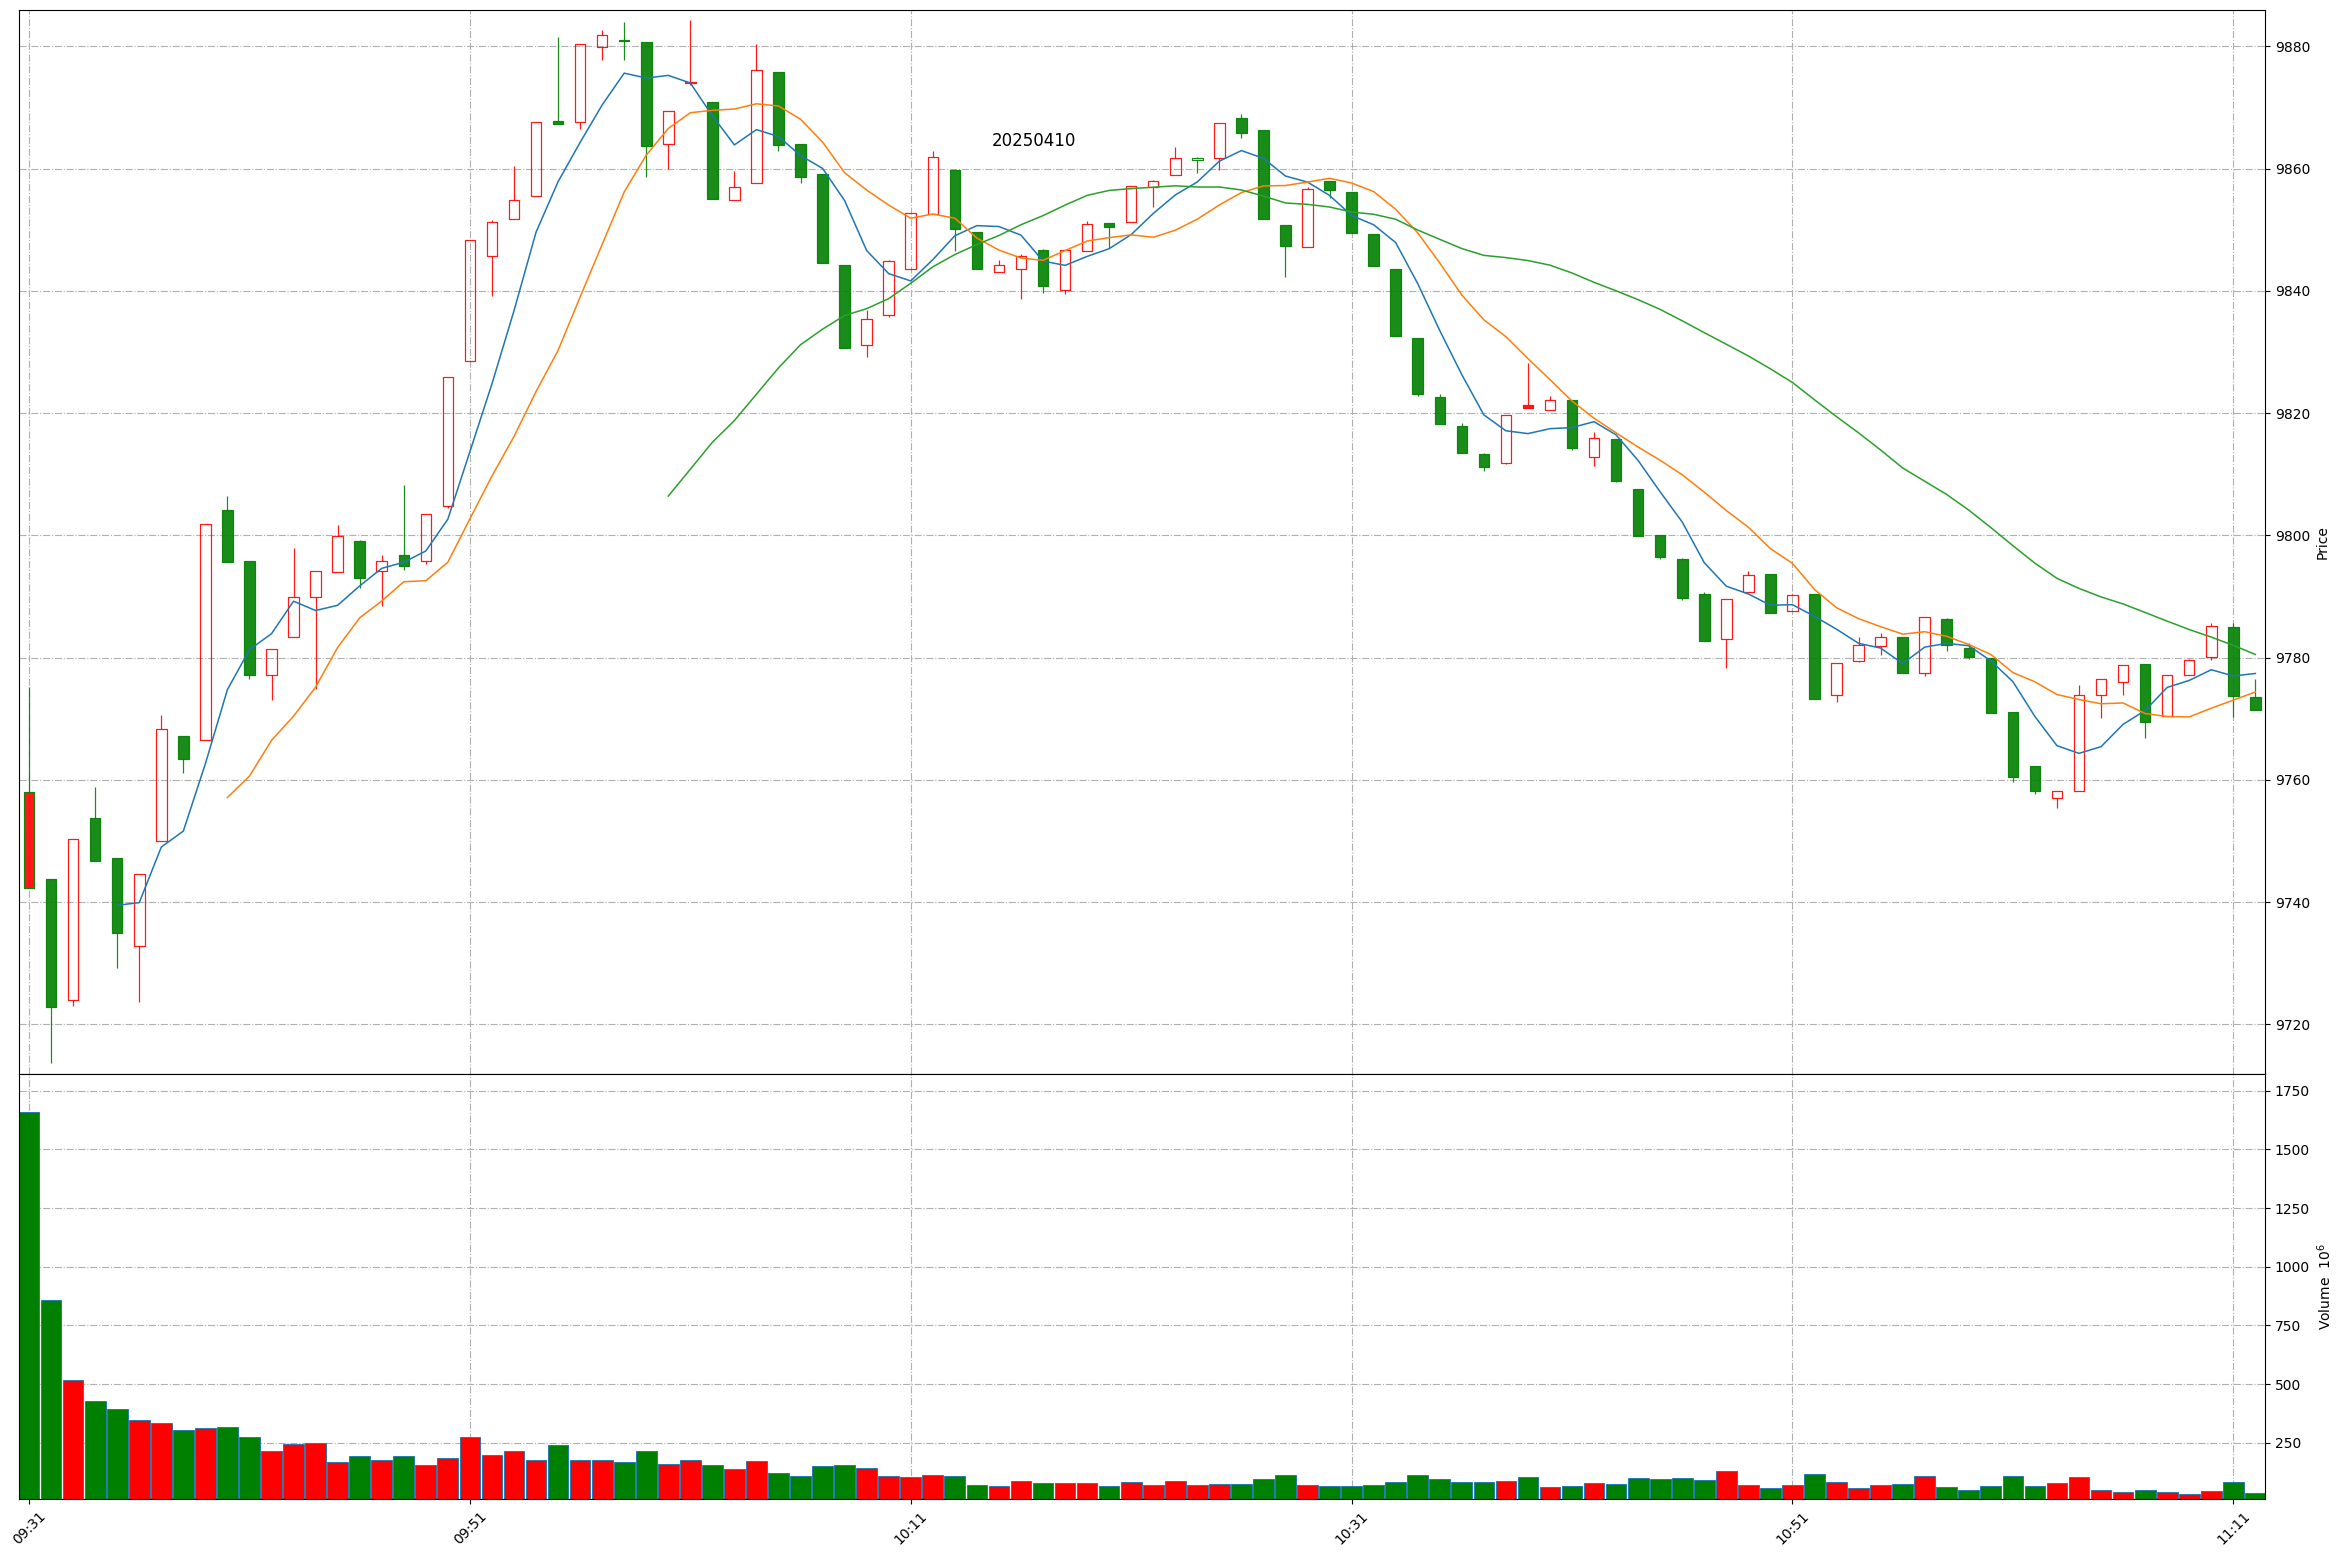
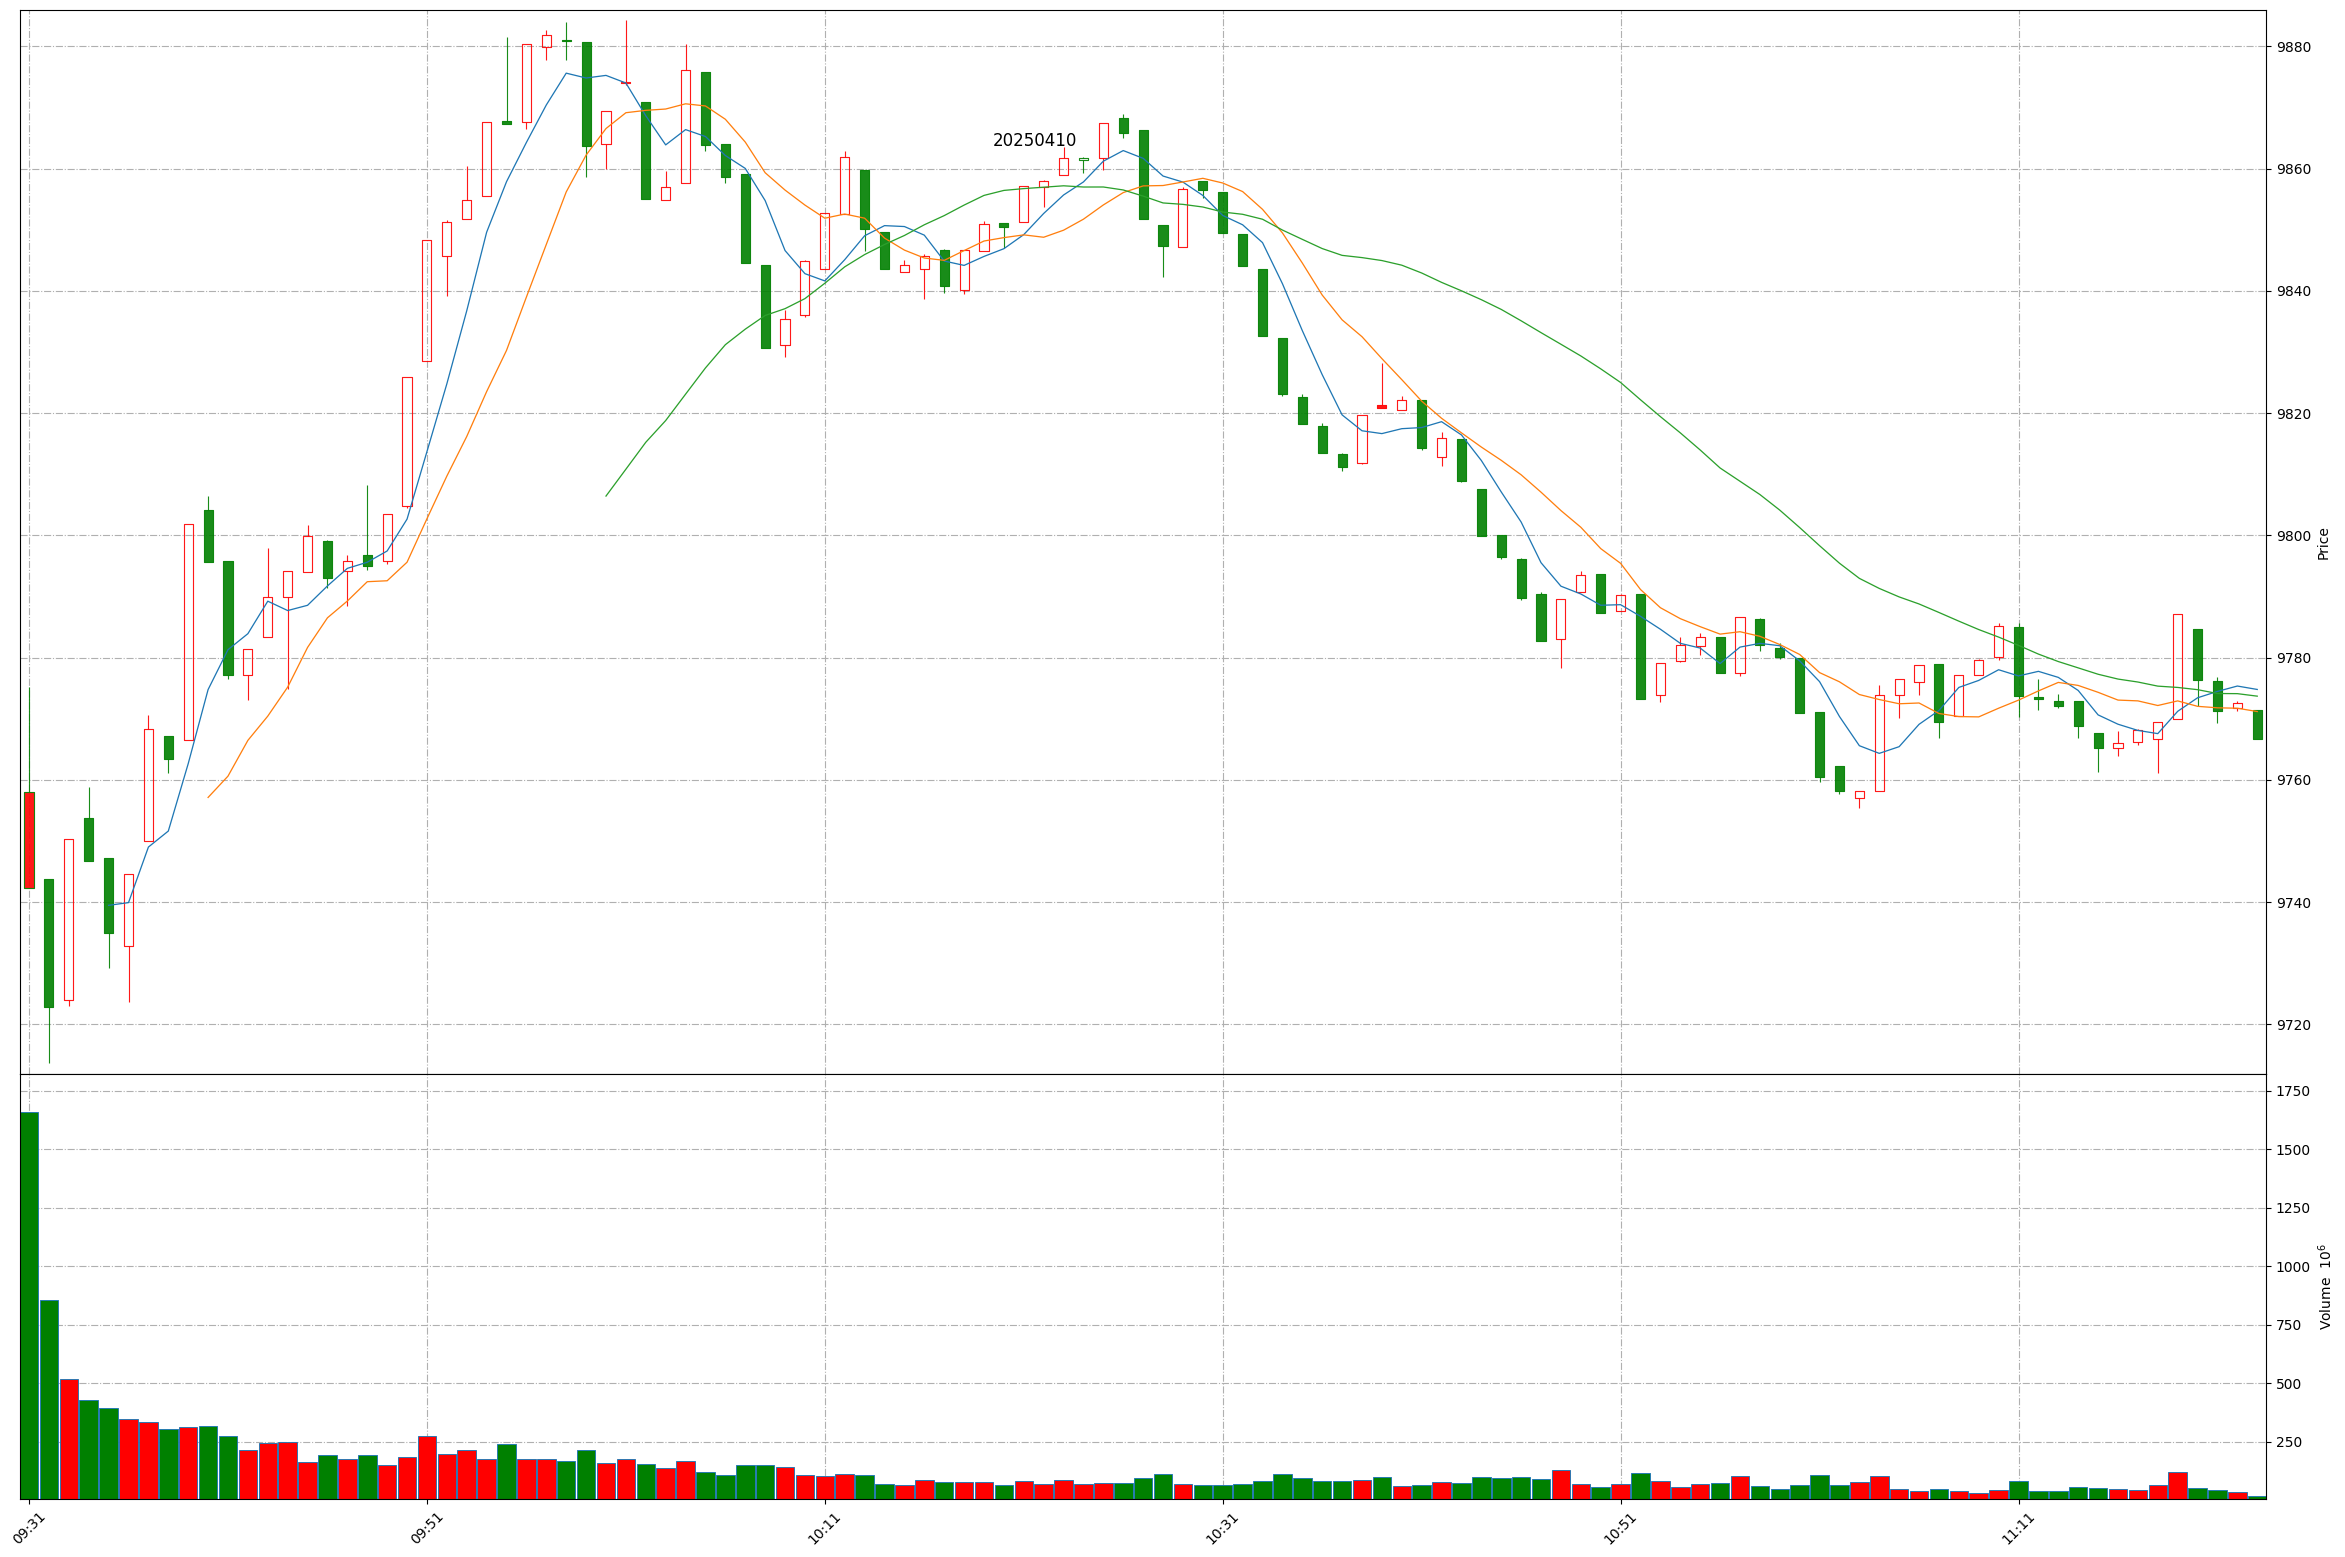
Github action update at 2025-04-10 11:22:28.

Changed region(s): [[0.0, 0.0, 0.9654, 0.6474], [0.0, 0.8324, 0.9654, 0.9865]]

diff --git a/README.md b/README.md
@@ -1,11 +1,11 @@
 
 # Daily-A-share-market-quotes 每日 A 股指数（5min 更新）- 20250410
 
-### 上证指数 20250410 11:12
+### 上证指数 20250410 11:22
 ![](./fig/2025/4/20250410-sh000001.png)
 
-### 深证成指 20250410 11:12
+### 深证成指 20250410 11:22
 ![](./fig/2025/4/20250410-sz399001.png)
 
-### 北证50 20250410 11:12
+### 北证50 20250410 11:22
 ![](./fig/2025/4/20250410-bj899050.png)
